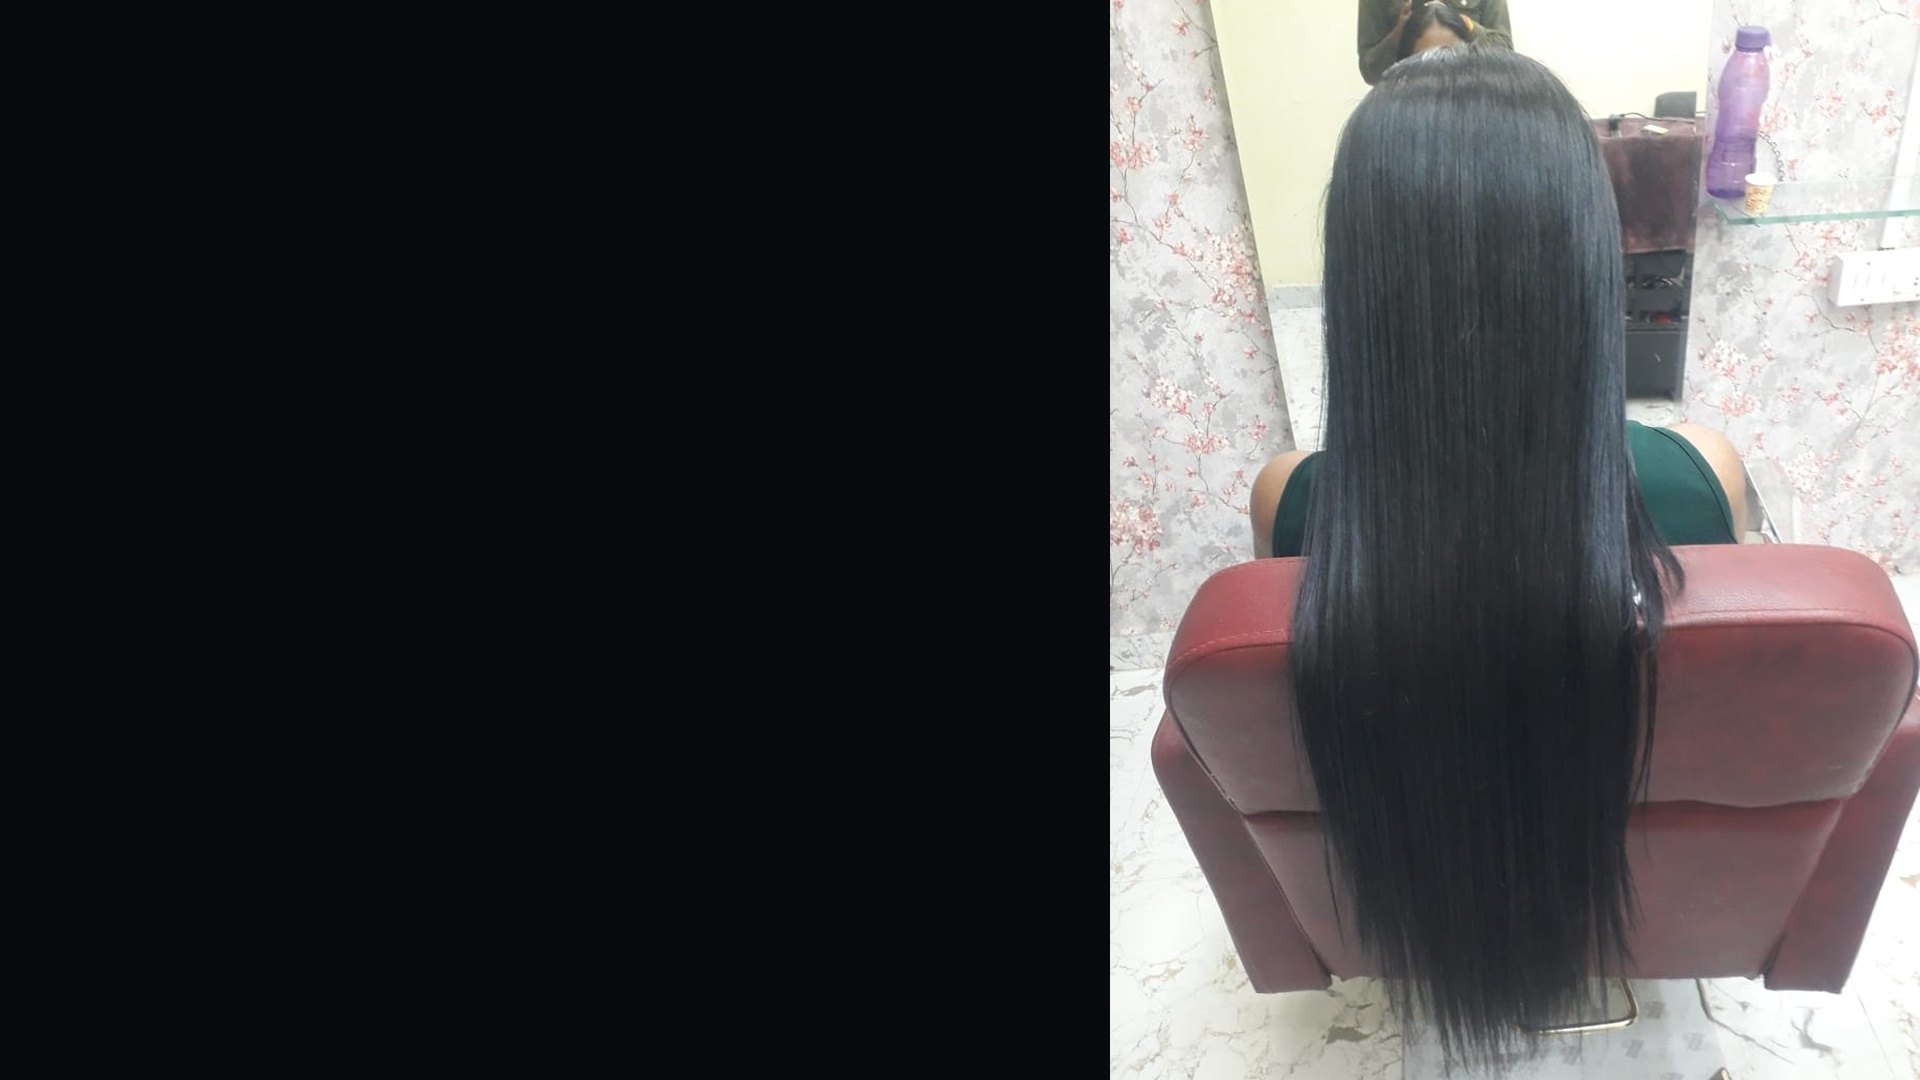
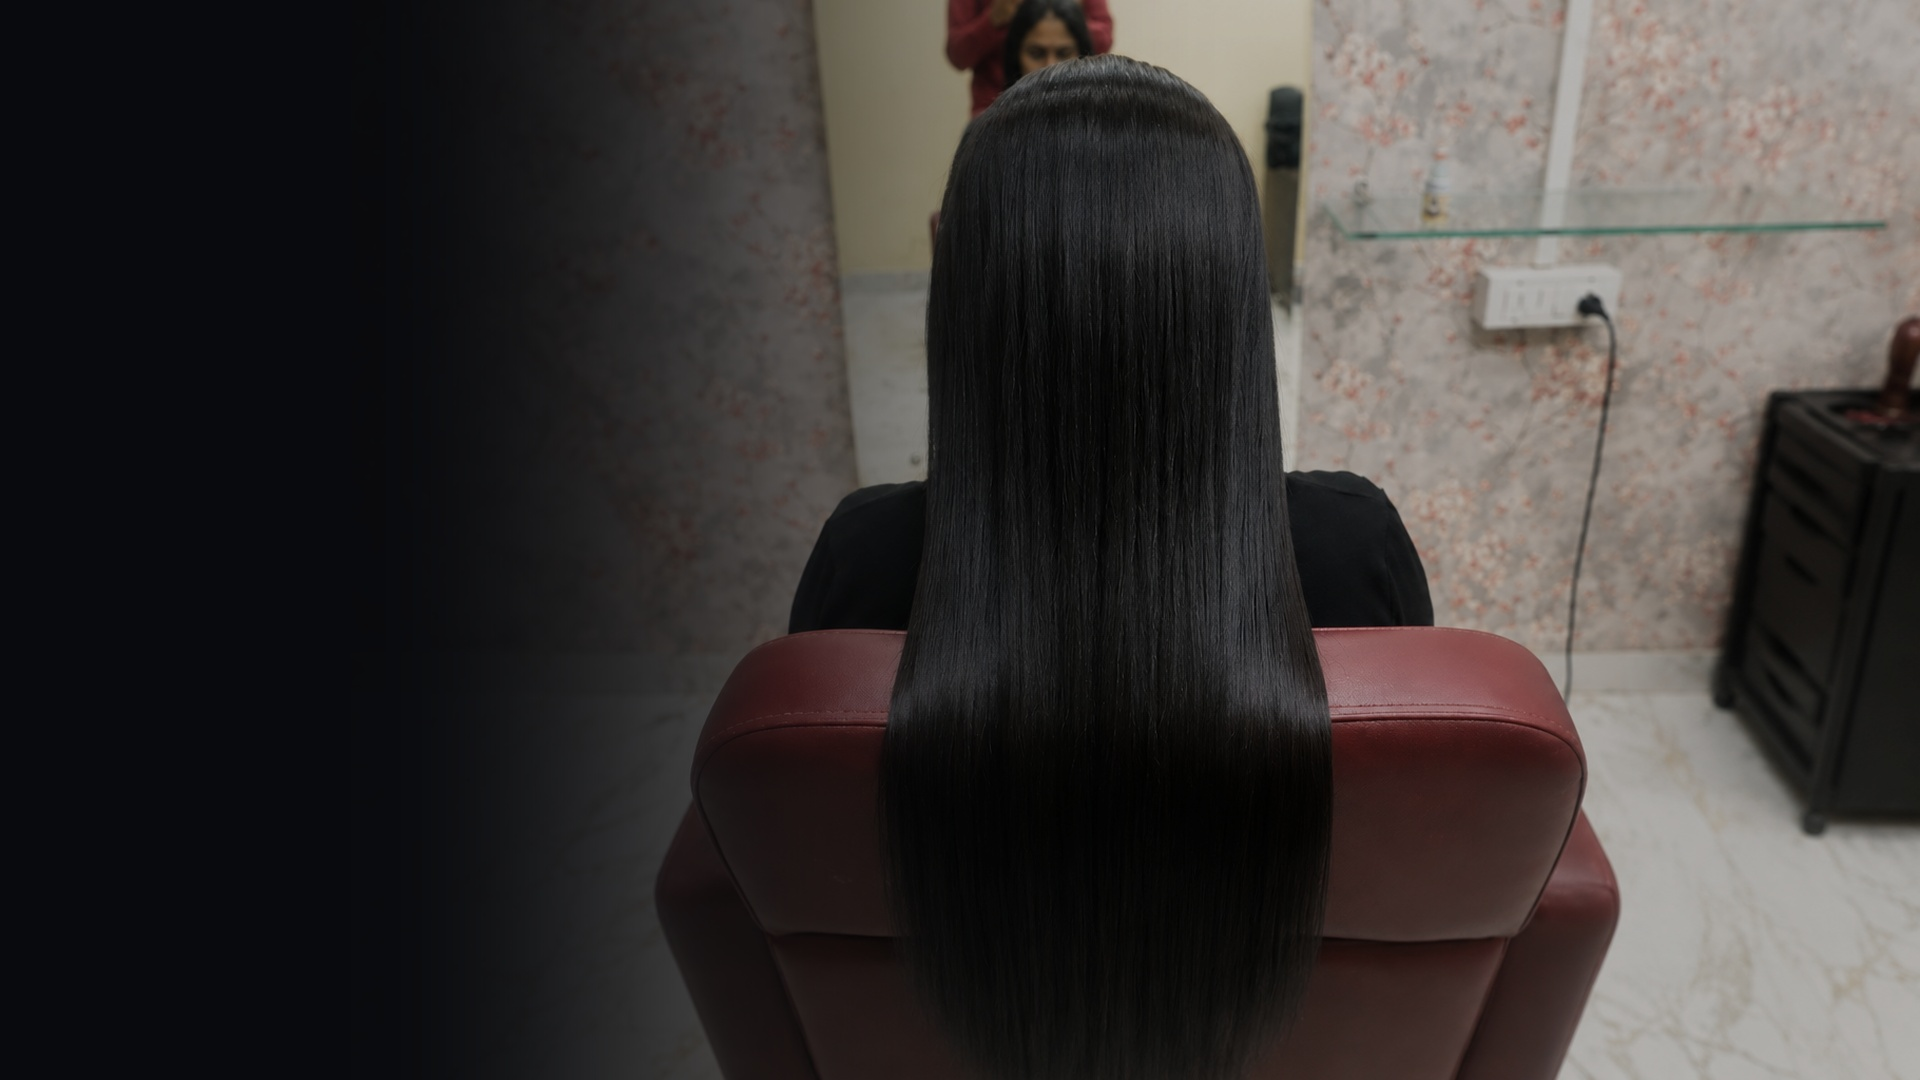
Remake hero background using exact photos/Background image.png with moody dark luxury fade

diff --git a/index.html b/index.html
@@ -15,7 +15,7 @@
     <link rel="stylesheet" href="https://cdnjs.cloudflare.com/ajax/libs/font-awesome/6.4.0/css/all.min.css">
     
     <!-- Custom CSS -->
-    <link rel="stylesheet" href="css/styles.css?v=4">
+    <link rel="stylesheet" href="css/styles.css?v=5">
 </head>
 <body>
 
@@ -642,6 +642,6 @@
     </div>
 
     <!-- Custom JS -->
-    <script src="js/app.js?v=4"></script>
+    <script src="js/app.js?v=5"></script>
 </body>
 </html>
